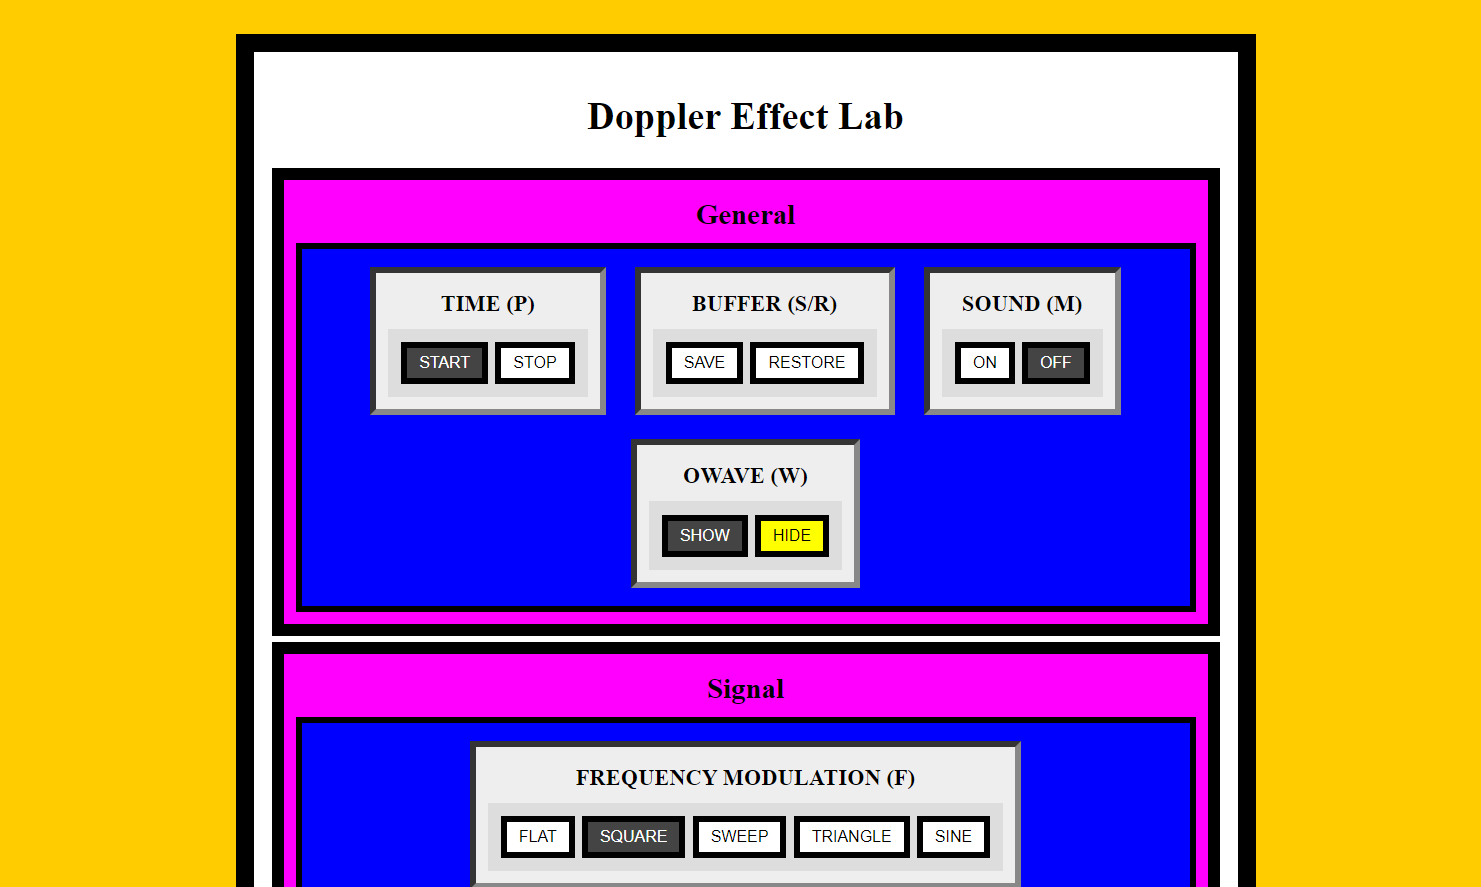
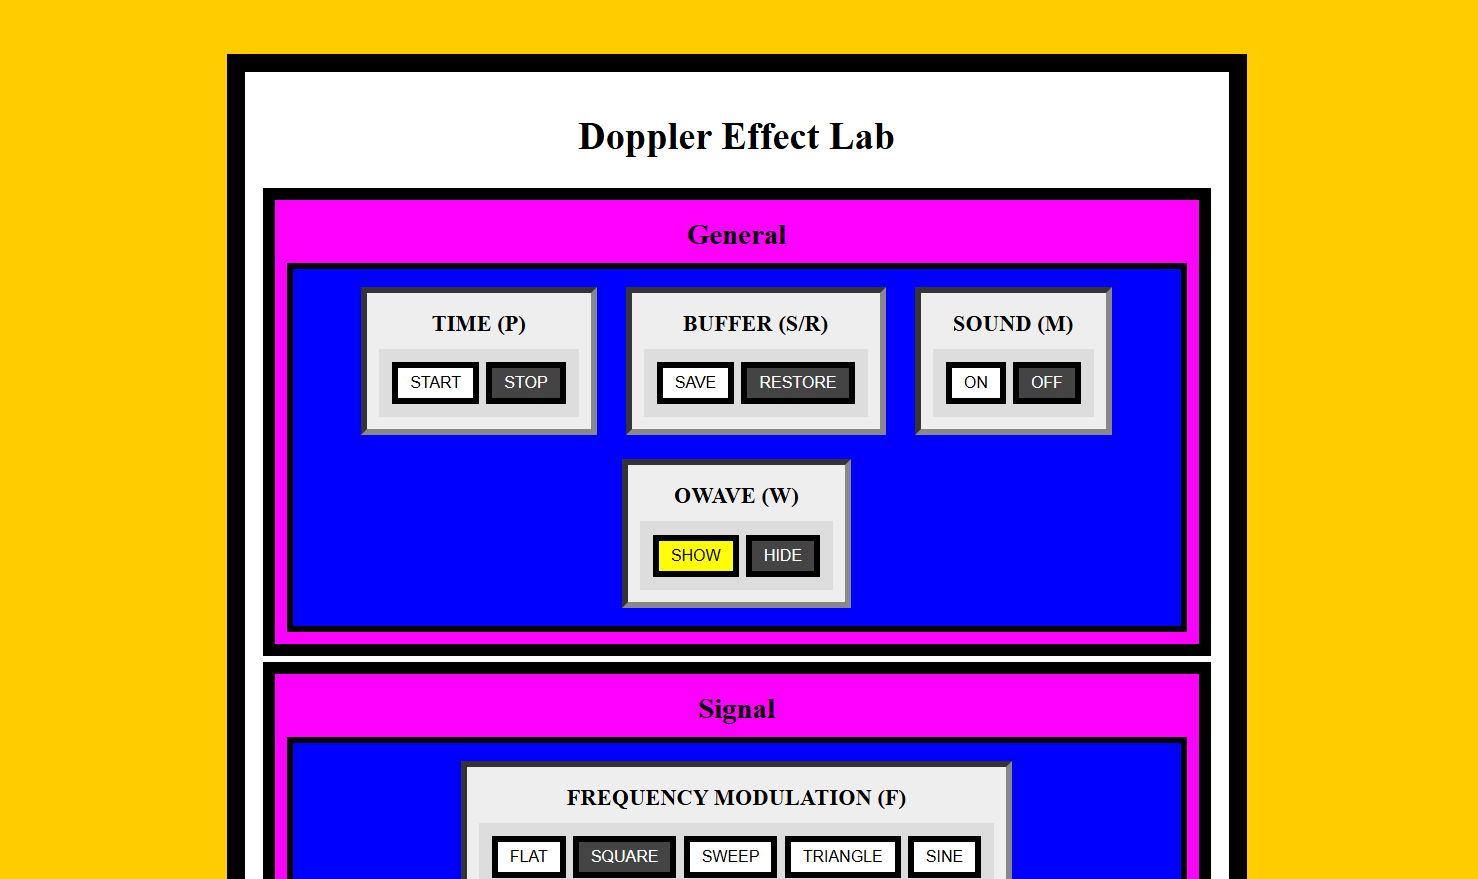
updated all 4 screenshots and fixed bug

diff --git a/manager/index.html b/manager/index.html
@@ -11,7 +11,7 @@
                 margin: 0;
                 padding: 0;
             }
-            
+
             button {
                 display: inline-block;
                 cursor: pointer;
@@ -41,18 +41,24 @@
 
             let contDoc = null;
 
-            frm.addEventListener("load", function() {
+            frm.addEventListener("load", function () {
                 contDoc = frm.contentDocument;
             });
 
             const btnAco = document.getElementById("button-acoustics");
+            let aco = false;
 
-            btnAco.addEventListener("click", function() {
+            btnAco.addEventListener("click", function () {
+                if (aco === true) {
+                    return ;
+                }
+
                 let scr = document.createElement("script");
                 scr.type = "text/javascript";
                 scr.src = "../acoustics/script.js";
 
                 if (contDoc !== null) {
+                    aco = true;
                     contDoc.body.appendChild(scr);
                 } else {
                     alert("Cross Origin Request Issue");
@@ -60,14 +66,20 @@
             });
 
             const btnIsf = document.getElementById("button-eyesafe");
+            let isf = false;
 
-            btnIsf.addEventListener("click", function() {
+            btnIsf.addEventListener("click", function () {
+                if (isf === true) {
+                    return ;
+                }
+
                 let stl = document.createElement("link");
                 stl.rel = "stylesheet";
                 stl.type = "text/css";
                 stl.href = "../eyesafe/style.css";
 
                 if (contDoc !== null) {
+                    isf = true;
                     contDoc.head.appendChild(stl);
                 } else {
                     alert("Cross Origin Request Issue");

diff --git a/acoustics/script.js b/acoustics/script.js
@@ -197,7 +197,7 @@ function doViewGeo() {
         ctxGeo.lineTo(-0.1, 0.1);
         ctxGeo.lineTo(-0.1, -0.1);
         ctxGeo.lineTo(0, 0);
-        ctxGeo.closePath(); 
+        ctxGeo.closePath();
         ctxGeo.stroke();
         ctxGeo.restore();
     }
@@ -218,7 +218,7 @@ function doViewGeo() {
             ctxGeo.lineTo(-0.1, 0.1);
             ctxGeo.lineTo(-0.1, -0.1);
             ctxGeo.lineTo(0, 0);
-            ctxGeo.closePath(); 
+            ctxGeo.closePath();
             ctxGeo.stroke();
             ctxGeo.restore();
         }
@@ -240,7 +240,7 @@ function doViewGeo() {
             ctxGeo.lineTo(-0.1, 0.1);
             ctxGeo.lineTo(-0.1, -0.1);
             ctxGeo.lineTo(0, 0);
-            ctxGeo.closePath(); 
+            ctxGeo.closePath();
             ctxGeo.stroke();
             ctxGeo.restore();
         }
@@ -260,7 +260,7 @@ function doViewGeo() {
             ctxGeo.lineTo(-0.1, 0.1);
             ctxGeo.lineTo(-0.1, -0.1);
             ctxGeo.lineTo(0, 0);
-            ctxGeo.closePath(); 
+            ctxGeo.closePath();
             ctxGeo.stroke();
             ctxGeo.restore();
         }

diff --git a/doppler/style.css b/doppler/style.css
@@ -83,14 +83,16 @@ body {
 
 #button-owave-show, #button-owave-hide {
     background-color: #ff0;
+    color: #000;
 }
 
 #button-owave-show:disabled, #button-owave-hide:disabled {
-    background-color: #444;
+    background-color: #660;
 }
 
 #button-control-source, #button-control-observer {
     padding: 10px 20px;
+    color: #000;
 }
 
 #button-control-source {
@@ -101,6 +103,10 @@ body {
     background-color: #0f0;
 }
 
-#button-control-source:disabled, #button-control-observer:disabled {
-    background-color: #444;
+#button-control-source:disabled {
+    background-color: #600;
+}
+
+#button-control-observer:disabled {
+    background-color: #060;
 }

diff --git a/eyesafe/style.css b/eyesafe/style.css
@@ -18,7 +18,9 @@ img {
     margin: 10px !important;
     padding: 10px !important;
     background-color: #fff !important;
-    border: 4px solid #eee !important;
+    border-width: 4px 0 0 0 !important;
+    border-style: solid !important;
+    border-color: #eee !important;
 }
 
 .group {

diff --git a/doppler/script.js b/doppler/script.js
@@ -91,7 +91,7 @@ function doPhys() {
     src.vel.y += src.acc.y;
     src.pos.x += src.vel.x;
     src.pos.y += src.vel.y;
-    
+
     obs.vel.x += obs.acc.x;
     obs.vel.y += obs.acc.y;
     obs.pos.x += obs.vel.x;
